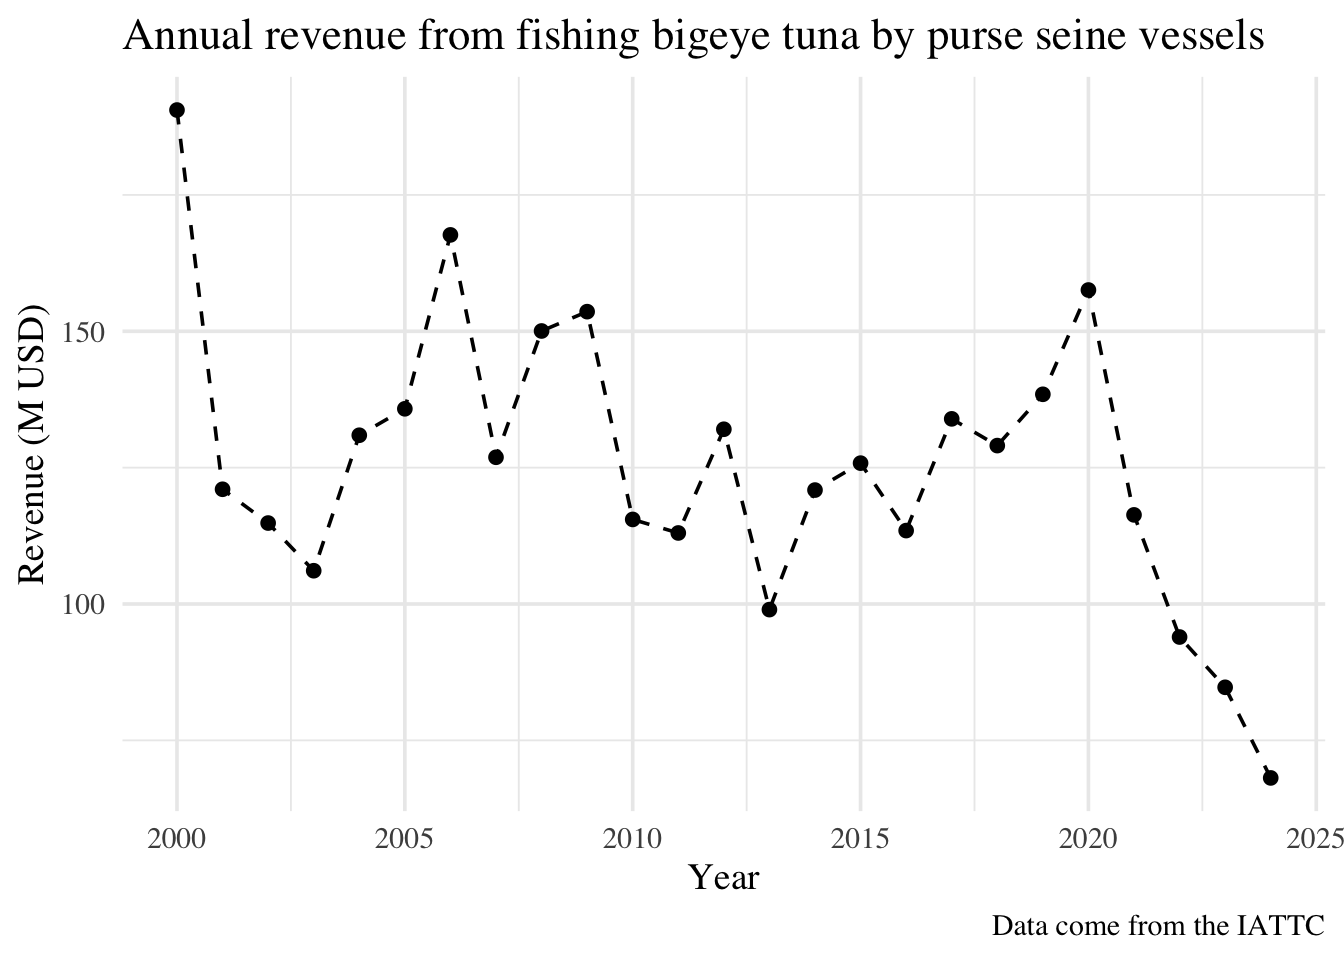
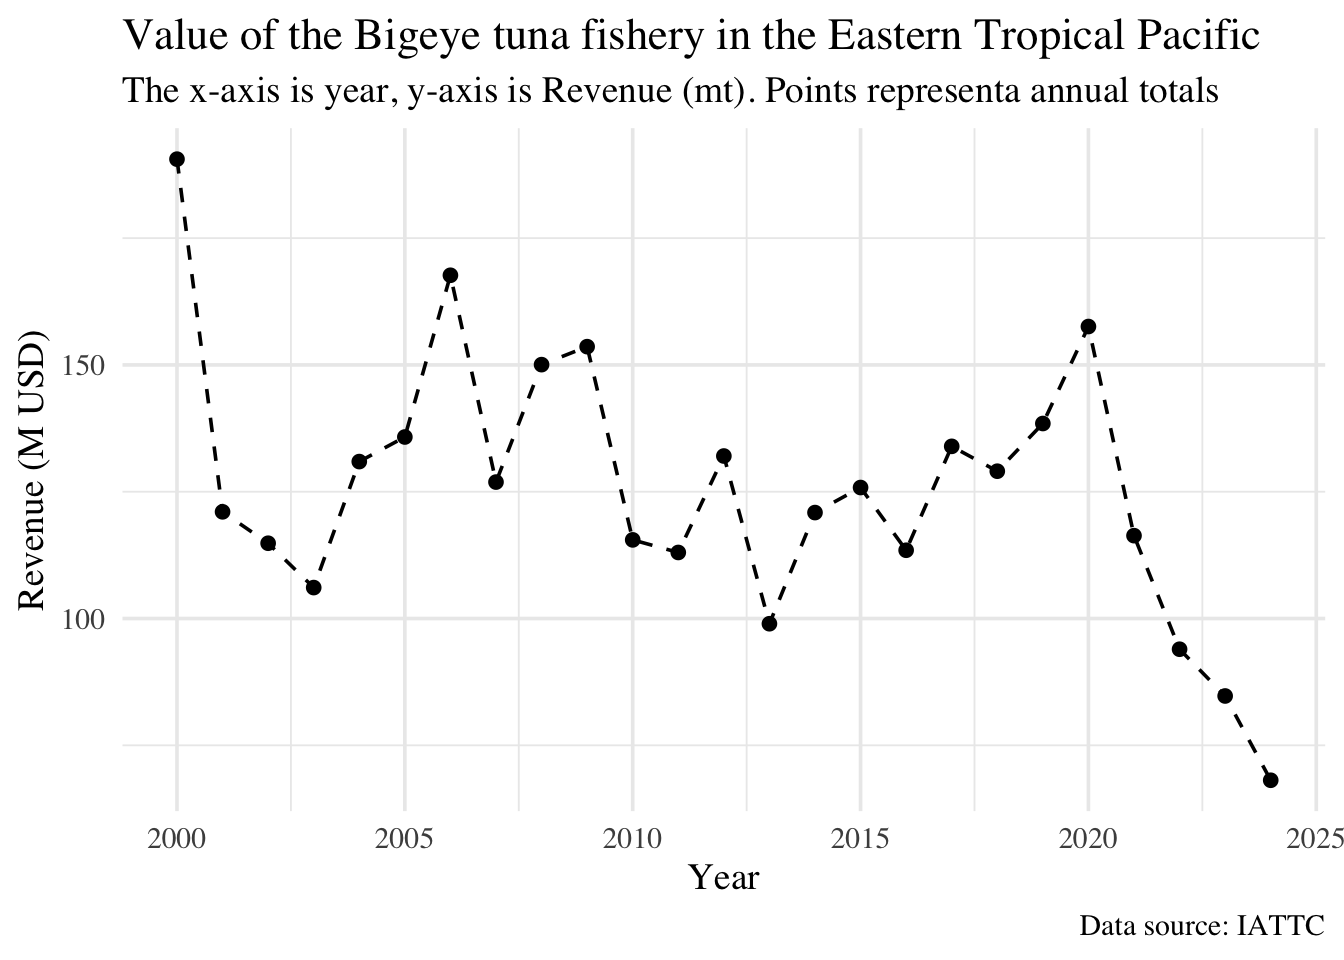
Updated docs

diff --git a/docs/06_live.html b/docs/06_live.html
@@ -397,14 +397,14 @@ window.Quarto = {
 <h2 class="anchored" data-anchor-id="part-g-visualize-the-data-and-answer-the-question">Part G) Visualize the data and answer the question</h2>
 <p>Remember, the question was:</p>
 <blockquote class="blockquote">
-<p>How much money have tuna purse seiners made since 2000 when fishing for bigeye tuna (<em>Thunnus obesus</em>)?</p>
+<p>What is the value of the bigeye (<em>Thunnus obesus</em>) fishery in the purse seine fleet operating in the Eastern Pacific Ocean?</p>
 </blockquote>
 <p>The question is ambiguous because one could answer “They have made X M USD since 2000” or “Every year since 2000, they have made Y M USD per year.” So let’s get both:</p>
 <ol start="0" type="1">
 <li><strong>Put your post-it up</strong></li>
-<li>What is the total revenue?<a href="#fn6" class="footnote-ref" id="fnref6" role="doc-noteref"><sup>6</sup></a></li>
-<li>What is the average annual revenue?<a href="#fn7" class="footnote-ref" id="fnref7" role="doc-noteref"><sup>7</sup></a></li>
-<li>Build a time-series showing revenues by year. Make sure to correctly label the axis and include a title and caption describing the figure and the data source, respectively.</li>
+<li>What is the total value?<a href="#fn6" class="footnote-ref" id="fnref6" role="doc-noteref"><sup>6</sup></a></li>
+<li>What is the mean annual value?<a href="#fn7" class="footnote-ref" id="fnref7" role="doc-noteref"><sup>7</sup></a></li>
+<li>Build a time-series showing revenues by year. Make sure to correctly label the axis and include a title, subtitle, and caption describing the figure and the data source, respectively.</li>
 <li><strong>Remove your post-it when you are done.</strong></li>
 </ol>
 <div class="cell">
@@ -433,11 +433,12 @@ window.Quarto = {
 <span id="cb16-5"><a href="#cb16-5" aria-hidden="true" tabindex="-1"></a>  <span class="fu">geom_point</span>() <span class="sc">+</span>                               <span class="co"># With points on top</span></span>
 <span id="cb16-6"><a href="#cb16-6" aria-hidden="true" tabindex="-1"></a>  <span class="fu">labs</span>(<span class="at">x =</span> <span class="st">"Year"</span>,                             <span class="co"># Add some labels</span></span>
 <span id="cb16-7"><a href="#cb16-7" aria-hidden="true" tabindex="-1"></a>       <span class="at">y =</span> <span class="st">"Revenue (M USD)"</span>,</span>
-<span id="cb16-8"><a href="#cb16-8" aria-hidden="true" tabindex="-1"></a>       <span class="at">title =</span> <span class="st">"Annual revenue from fishing bigeye tuna by purse seine vessels"</span>,</span>
-<span id="cb16-9"><a href="#cb16-9" aria-hidden="true" tabindex="-1"></a>       <span class="at">caption =</span> <span class="st">"Data come from the IATTC"</span>) <span class="sc">+</span></span>
-<span id="cb16-10"><a href="#cb16-10" aria-hidden="true" tabindex="-1"></a>  <span class="co"># Modify the theme</span></span>
-<span id="cb16-11"><a href="#cb16-11" aria-hidden="true" tabindex="-1"></a>  <span class="fu">theme_minimal</span>(<span class="at">base_size =</span> <span class="dv">14</span>,               <span class="co"># Font size 14</span></span>
-<span id="cb16-12"><a href="#cb16-12" aria-hidden="true" tabindex="-1"></a>                <span class="at">base_family =</span> <span class="st">"Times"</span>)        <span class="co"># Font family Times</span></span></code></pre></div><button title="Copy to Clipboard" class="code-copy-button"><i class="bi"></i></button></div>
+<span id="cb16-8"><a href="#cb16-8" aria-hidden="true" tabindex="-1"></a>       <span class="at">title =</span> <span class="st">"Value of the Bigeye tuna fishery in the Eastern Tropical Pacific"</span>,</span>
+<span id="cb16-9"><a href="#cb16-9" aria-hidden="true" tabindex="-1"></a>       <span class="at">subtitle =</span> <span class="st">"The x-axis is year, y-axis is Revenue (mt). Points representa annual totals"</span>,</span>
+<span id="cb16-10"><a href="#cb16-10" aria-hidden="true" tabindex="-1"></a>       <span class="at">caption =</span> <span class="st">"Data source: IATTC"</span>) <span class="sc">+</span></span>
+<span id="cb16-11"><a href="#cb16-11" aria-hidden="true" tabindex="-1"></a>  <span class="co"># Modify the theme</span></span>
+<span id="cb16-12"><a href="#cb16-12" aria-hidden="true" tabindex="-1"></a>  <span class="fu">theme_minimal</span>(<span class="at">base_size =</span> <span class="dv">14</span>,               <span class="co"># Font size 14</span></span>
+<span id="cb16-13"><a href="#cb16-13" aria-hidden="true" tabindex="-1"></a>                <span class="at">base_family =</span> <span class="st">"Times"</span>)        <span class="co"># Font family Times</span></span></code></pre></div><button title="Copy to Clipboard" class="code-copy-button"><i class="bi"></i></button></div>
 </details>
 <div class="cell-output-display">
 <div>
